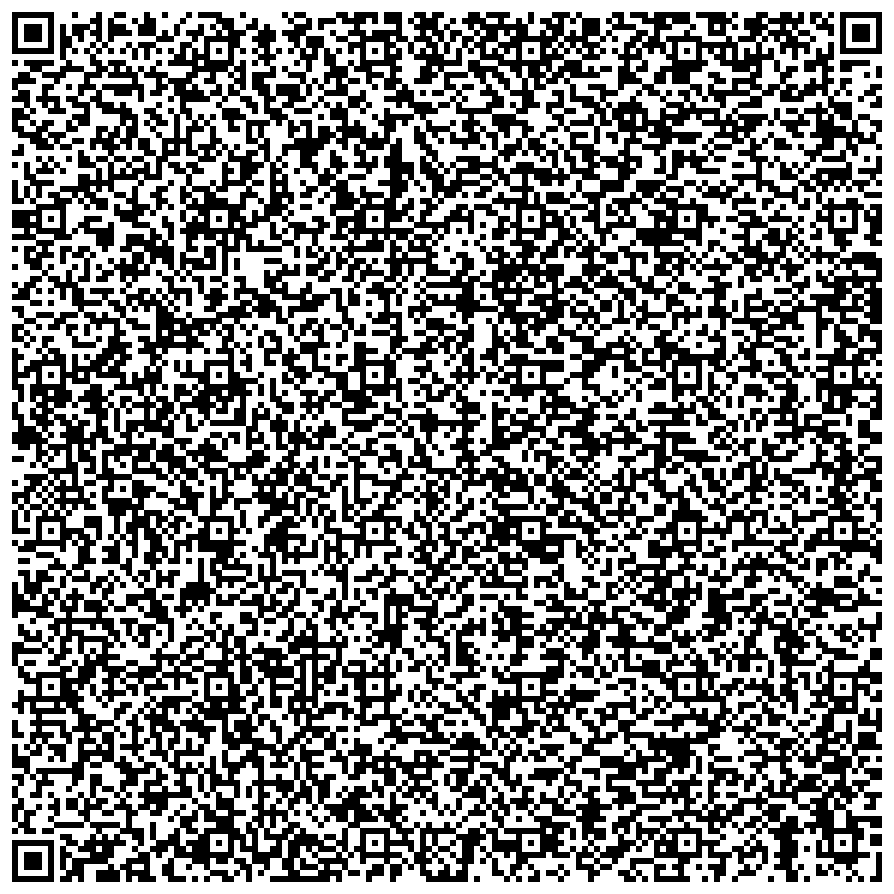
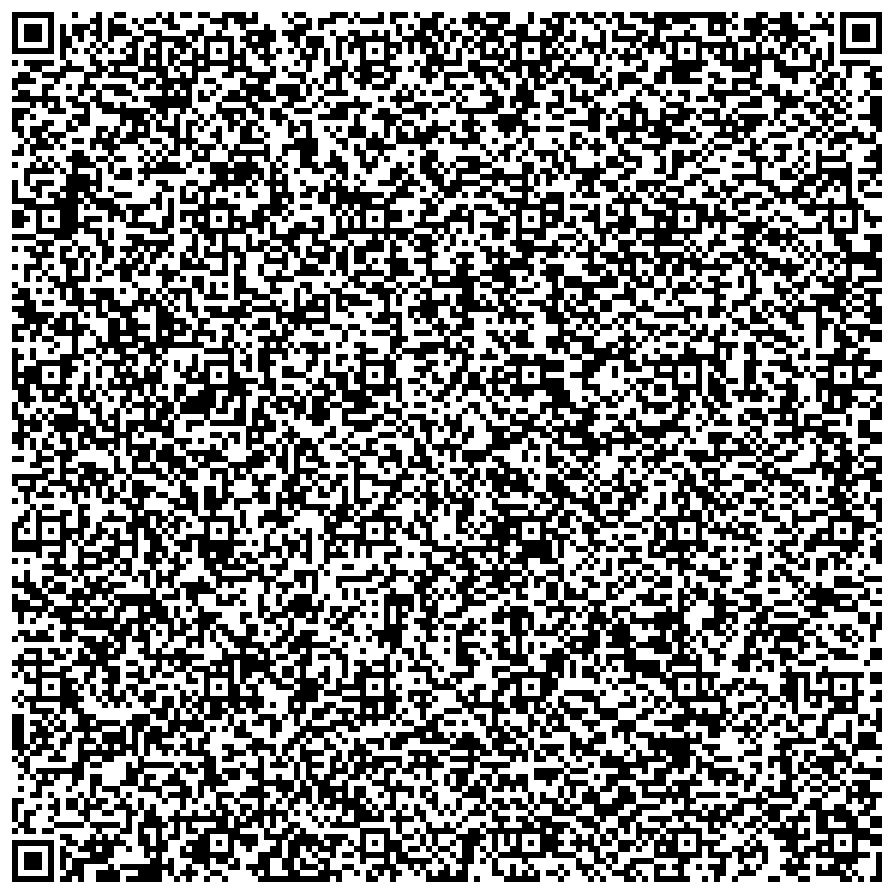
Remove stale nalog.gov.ru DnsHosts pin from all profiles
Owner-approved block D change: 37.220.164.0/24 is no longer announced (RIPE RIS 0/327 peers); nalog.gov.ru now resolves to 195.208.66.236 (NGENIX AS34879). Pin removed rather than replaced; domain resolves via DomesticDNS and stays Direct. Deeplinks and QR codes regenerated with existing parameters. Journal: changes/2026-10-11-dnshosts.md.

diff --git a/scripts/validate_abc.py b/scripts/validate_abc.py
@@ -165,6 +165,8 @@ def validate(qr=False, baseline=None):
         payload = unquote(link.split("/onadd/", 1)[1])
         assert json.loads(base64.b64decode(payload)) == profile, path
         assert "geosite:twitch" not in path.read_text()
+        # Approved 2026-10-11: stale nalog.gov.ru pin removed (changes/2026-10-11-dnshosts.md).
+        assert "nalog.gov.ru" not in profile.get("DnsHosts", {}), path
         assert "geosite:twitch-ads" not in path.read_text()
         if qr and path.stem == "DEFAULT":
             import zxingcpp

diff --git a/changes/2026-10-11-dnshosts.md b/changes/2026-10-11-dnshosts.md
@@ -1,0 +1,17 @@
+# DnsHosts: удалён пин nalog.gov.ru, 11 октября 2026
+
+Владелец согласовал удаление пина `nalog.gov.ru` → `37.220.164.100` из `DnsHosts` всех шести профилей HAPP и INCY.
+
+## Почему
+
+- Публичный DNS (Google, Cloudflare) сейчас отвечает для `nalog.gov.ru` адресом `195.208.66.236`. Это сеть NGENIX `195.208.66.0/24` (AS34879), которую видят все 327 пиров RIPE RIS. На этом адресе отдаётся валидный сертификат Let's Encrypt для `nalog.gov.ru`.
+- Старая сеть `37.220.164.0/24` (NGENIX-NET) по истории RIPE в последний раз анонсировалась AS205312 примерно до 10 августа 2026 года. Сейчас её не видит ни один из 327 пиров, поэтому пин делал домен недоступным для клиентов.
+- Это адрес CDN, и он уже менялся. Поэтому пин удалён, а не заменён: домен разрешается через `DomesticDNS` профиля и по-прежнему идёт в Direct через `category-ru-whitelist`.
+
+## Что изменилось
+
+- `DnsHosts`: 12 → 11 записей во всех шести профилях. Другие ключи профилей не менялись.
+- Пересобраны deeplink-ссылки и QR-коды всех шести профилей с прежними параметрами: DEFAULT — `scripts/build_default_links.py`, WHITELIST и JSONSUB — уровень коррекции M, `box_size` 6, рамка 2.
+- Остальные 11 пинов 11 октября 2026 года сверены с DNS, маршрутами RIPE и сертификатами и признаны актуальными. Сегодняшний сбой в дата-центре «Яндекса» их не затрагивает.
+- В `scripts/validate_abc.py` добавлена проверка, которая не даст вернуть этот пин ни в один профиль; на тестовом пине она срабатывает.
+- Домены, GeoIP, DNS-серверы, RouteOrder и прочие настройки блока D не менялись.
